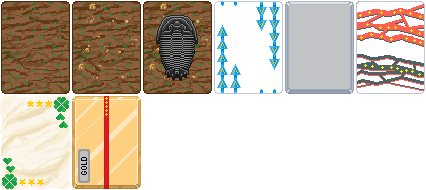
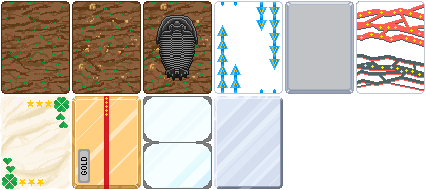
Add 2 new enhancement and a new Joker

Changed region(s): [[0.3357, 0.5, 0.6714, 1.0]]

diff --git a/README.md b/README.md
@@ -24,10 +24,10 @@
 <hr>
 <h2>Elements</h2>
 <ul>
-    <li>33+ Jokers</li>
+    <li>34+ Jokers</li>
     <li>30 Foods (+6 Cross-Mod)</li>
     <li>4 Booster Packs</li>
-    <li>6+ Enhancements</li>
+    <li>8+ Enhancements</li>
     <li>2 Vouchers</li>
     <li>1 Deck</li>
     <li>1 Tarot</li>
